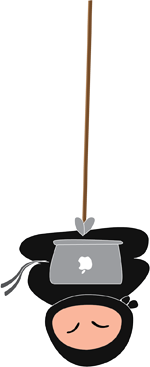
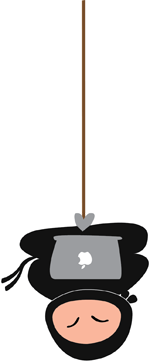
awesome ninja animation!

diff --git a/app/assets/stylesheets/pages.css.sass b/app/assets/stylesheets/pages.css.sass
@@ -12,12 +12,15 @@
 
 +keyframes(flying_kick)
   0%, 100%
-    +translate(-200px, -10px)
+    +translate(-100px, -10px)
   
-  20%
-    +translate(-150px, -100px)
-    
   30%
+    +translate(-100px, -10px)
+   
+  45%
+    +translate(-100px, -100px)  
+  
+  60%
     +translate(0, 0)
 
 +keyframes(spinning_kick)
@@ -34,6 +37,33 @@
     +transform(translate(40px, -50px) rotate(20deg))
   10%
     +transform(translate(30px, 0) rotate(5deg))
+
+
++keyframes(shuriken)
+  0%, 19.1%, 60.1%, 100%
+    visibility: hidden
+
+  20%
+    visibility: visible
+    bottom: 150px
+    right: 90px
+    width: 20px
+    height: 20px
+
+  60%
+    visibility: visible
+    bottom: 0
+    right: 800px
+    width: 50px
+    height: 50px
+    
++keyframes(throw)
+  0%, 100%
+    right: 50px
+  
+  30%
+    right: 0 
+    
 
 body
   +background(linear-gradient(black #001848))
@@ -104,7 +134,7 @@ body
       .ninja
         margin-top: -200px
         z-index: 0
-        +transform-origin(90px, 0)
+        +transform-origin(83px, 0)
         +animation(pendulum 3s infinite)
         
     footer
@@ -112,11 +142,19 @@ body
       img
         position: absolute
       
-      .ninja
+      .ninja.rails
         left: 0
         bottom: 20px
-        +animation(flying_kick 2s infinite)
+        +animation(flying_kick 3s infinite)
         
+      .ninja.ruby
+        bottom: 80px
+        +animation(throw 3s infinite)
+        
+      .shuriken
+        +animation(shuriken 3s infinite)
+
+          
         
       .dynamite
         left: 160px
